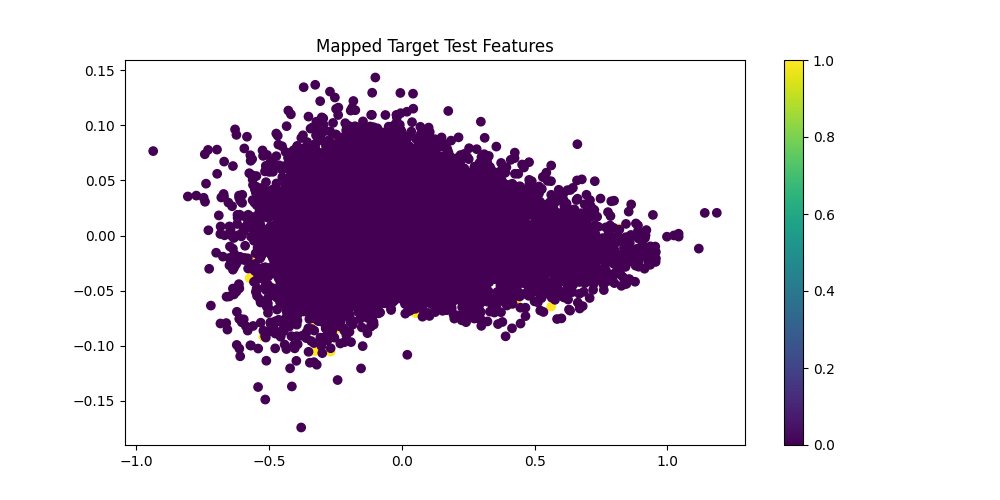
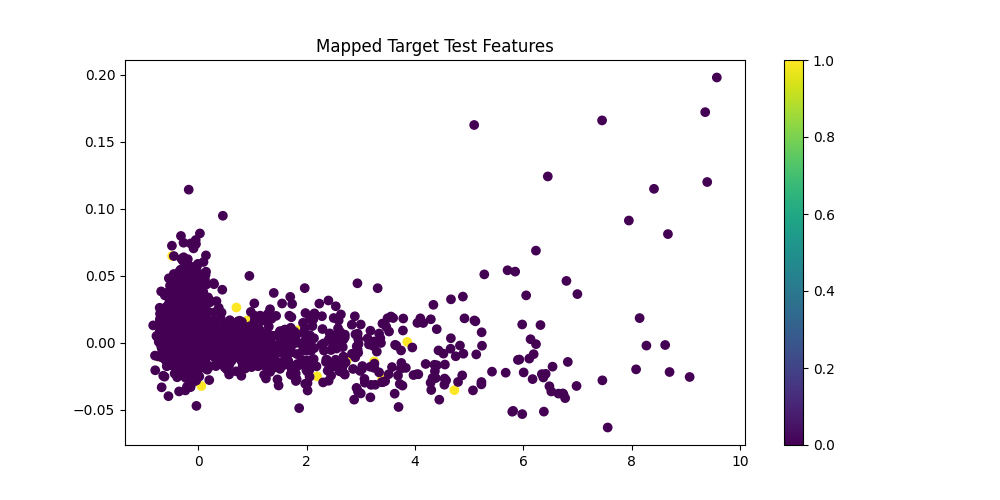
feat: treinando ae 50 epocas

diff --git a/pipelines/train_autoencoder.py b/pipelines/train_autoencoder.py
@@ -126,7 +126,7 @@ def extract_features(model, dataloader):
     return all_features, all_labels
 
 
-def run(output_path, k=1, epochs=5):
+def run(output_path, k=1, epochs=50):
     features_path = os.path.join(output_path, "features/")
     centroids_path = os.path.join(output_path, "centroids/")
     os.makedirs(centroids_path, exist_ok=True)
